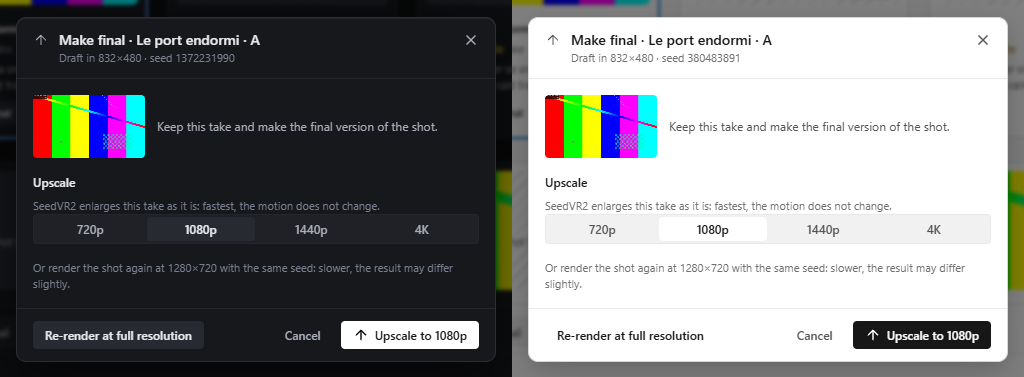
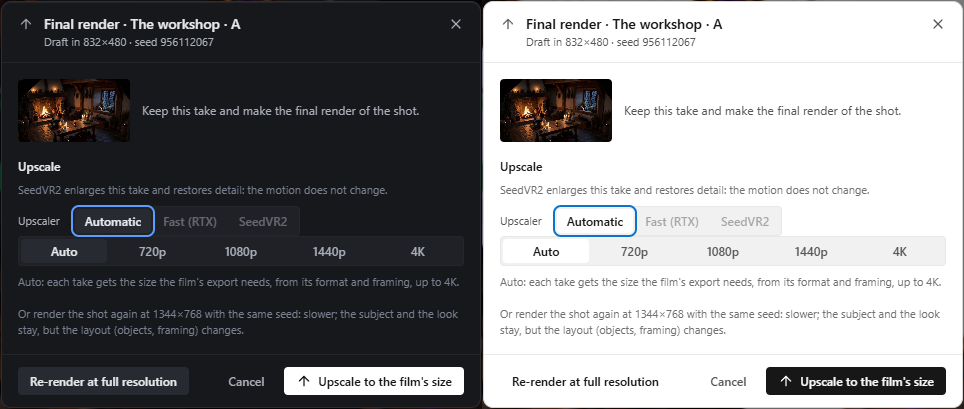
Video Producer screenshots: engine-popup, estimate-sound and make-final retaken on version 0.3.1 on an instance that sees the GPU, without generating anything (the engine menu of the Generation settings drawer, the estimate details with the sound warnings of a reference track, the Final render windo

diff --git a/content/plugins/marketplace/video-producer/docs/screenshots/README.md b/content/plugins/marketplace/video-producer/docs/screenshots/README.md
@@ -132,7 +132,7 @@ Nothing is staged in these images. The three sounds ("fisherman-voice.wav", "acc
 | [shot-editor-sound](shot-editor-sound.png) | 1720 x 747. The shot editor of shot 1: "Harbour rain" inherited with its length and player, "Fisherman's line" of the shot only with its **Voice** type, its player and its length, **Add a sound** next to **Add to the shot**, **Reference tracks** with A1 "1 clip between 0.0 s and 5.0 s" and A2 "Nothing between 0.0 s and 5.0 s: nothing is sent", each with **Exclude**, and "Will be mixed onto the take, not used as a guide." |
 | [lane-reference](lane-reference.png) | 1730 x 572. The console with the **Ref.** button on, in the signal colour, under A1 and A2, and the Inspector of A1 with **Reference for the generation** on and its hint. |
 | [sound-cards](sound-cards.png) | 1352 x 604, dark above, light below. The five Storyboard cards with the waveform icon after the stage: grey on shots 1, 2 and 5 (LTX-2.5, mixed), green on shot 3 (MiniMax-H3 in Ref2VA), its tooltip "Guides the generation: MiniMax H3 follows this sound.", and amber on shot 4 (Wan, ignored). |
-| [estimate-sound](estimate-sound.png) | 1142 x 144. The tooltip of the Production bar for shot 1, as the server answered it: the missing models, then "the reference track A2 · Music has no sound under the shot, nothing of it is sent", "its sound will be mixed onto the take, not used as a guide" and the FL2VA note. |
+| [estimate-sound](estimate-sound.png) | 708 x 269 (354 x 269 per theme). Retaken on 12 November 2026 for version 0.3.1, dark theme on the left and light theme on the right, English interface, with a test account, on a throwaway instance that served `dev` with the GPU visible, on a copy of the storage of an earlier GPU test instance with "Lumi’s potion" and its two real MiniMax-H3 (12 GB) drafts; no take was generated. The **Estimate details** popover of the production deck for shot 1, as the server answered it: "1 shot · 2 takes in 832×480", the time measured on the two drafts, the memory, then the warnings: the reference track A3 · Ambience has no sound under the shot, so nothing of it is sent; the sound of the shot (a WAV file imported from the computer onto A2 · Music, a reference track) will be mixed onto the take, not used as a guide, since the profile is FL2VA; the shot has no linked frame; the model streams through host RAM. |
 
 ## Generation
 
@@ -145,8 +145,8 @@ The machine that took them has no GPU and no cloud key, so the generation routes
 | Image | What it shows |
 |---|---|
 | [takes-cards](takes-cards.png) | 624 x 840 (312 x 840 per theme, crops of 1440 x 1200 captures, the timeline lowered). Retaken on 12 November 2026 for version 0.3.1. The group **Drafts · 4** of shot 2 in the Inspector: takes A and B finished ("Draft quality", MiniMax H3 (12 GB), label **Draft**, the tools row and **Final render…**; B is the take placed on the shot, with its check mark), then takes C and D failed ("Failed", the readable message "The server’s GPU needs a restart before it can generate again: an administrator must restart the backend (Administration › Backends).", **Retry**, and **Selected** greyed since the take has no video). |
-| [make-final](make-final.png) | 1024 x 377. The "Make final" window of take A: title with the shot and the variant, subtitle with the draft size and the seed, then "Upscale" with the SeedVR2 hint and the four targets (720p, 1080p, 1440p, 4K; 1080p is preselected because the project resolution is 1080p). "Upscale to 1080p" is the primary action; "Re-render at full resolution" sits on the left and the hint above it names its size (1280 x 720) and the same seed. |
-| [engine-popup](engine-popup.png) | 820 x 208. The engine pop-up of the Production bar, with the "AI generation" output mode and the sliders button around it (it opened the Advanced workshop when the image was taken; since 24 October 2026 it is **Edit Engine**, which opens the window of the engine options, and the profile, the margin and the count of the shots with their own engine sit between the pop-up and it). A native drop-down list is not painted by a headless screenshot, so the image shows the same `<select>` twice: closed, in the bar, and cloned as an open list box right under it. Groups are the backend names given by the host: "Local Generation" lists the presets of the native backend (Wan 2.1 / 2.2, MiniMax H3, MiniMax H3 Fast), "OpenRouter" lists the cloud models turned on (Veo 3 Fast, Kling 2.1). The selected entry is the one written in the document (`engine.preset`, `engine.model`, `engine.backend`). |
+| [make-final](make-final.png) | 964 x 409 (482 x 409 per theme). Retaken on 12 November 2026 for version 0.3.1, dark theme on the left and light theme on the right, English interface, with a test account, on a throwaway instance that served `dev` with the GPU visible, on a copy of the storage of an earlier GPU test instance with "Lumi’s potion" and its two real MiniMax-H3 (12 GB) drafts; no take was generated. The **Final render** window of take A of "The workshop": the draft size and seed, the thumbnail of the take, **Upscale** with the SeedVR2 hint, the **Upscaler** choice (**Automatic**, **Fast (RTX)** greyed since the RTX Upscale preset is not ready on that instance, **SeedVR2**), the target resolutions with **Auto** chosen and its explanation, the re-render at 1344×768 with the same seed, **Re-render at full resolution**, **Cancel** and **Upscale to the film's size**. |
+| [engine-popup](engine-popup.png) | 884 x 309 (442 x 309 per theme). Retaken on 12 November 2026 for version 0.3.1, dark theme on the left and light theme on the right, English interface, with a test account, on a throwaway instance that served `dev` with the GPU visible, on a copy of the storage of an earlier GPU test instance with "Lumi’s potion" and its two real MiniMax-H3 (12 GB) drafts; no take was generated. The **Generation settings** drawer that the engine chip of the production deck opens, with the **Engine** menu open: the group "Local Generation" lists the four presets assigned to the account (MiniMax H3 (12 GB), MiniMax H3 Fast (12 GB), Wan 2.1 T2V 1.3B (8 GB), Wan 2.2 14B Lightning (12 GB)), each with the system RAM it needs. A native drop-down list is not painted by a headless screenshot, so the capture script copies the real `<select>`, with its options, its font and its colours, into an open list box right under it, as for the earlier image. |
 
 The four families of images of the earlier steps that show takes (`director-results-*`, `inspector-takes-*`, `starter-inspector-takes-*`, `starter-storyboard-generated-*`) were retaken at step 4 with the plugin only, 1440 x 900 JPEG (quality 80), dark and light. They no longer have a prototype half: the prototype simulated its takes and the plugin has dropped that simulation. `director-results-*`, `starter-inspector-takes-*` and `starter-storyboard-generated-*` show **real takes** generated on the instance GPU (see below). `inspector-takes-*` still comes from simulated generation routes, like the three images above (project, autosave and library are real, the thumbnails are frames of two real library clips), because it needs a failed, a running and a queued take in the same picture, which one real session cannot give on demand. `starter-storyboard-generated-*` and `starter-inspector-takes-*` were taken again on 11 November 2026, on "Lumi’s potion", as their rows above say.
 
